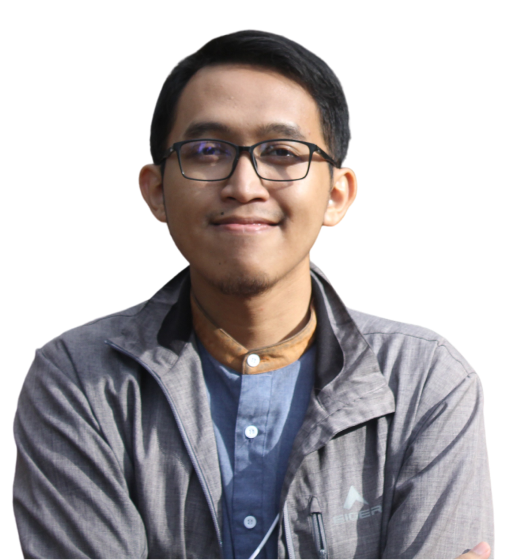
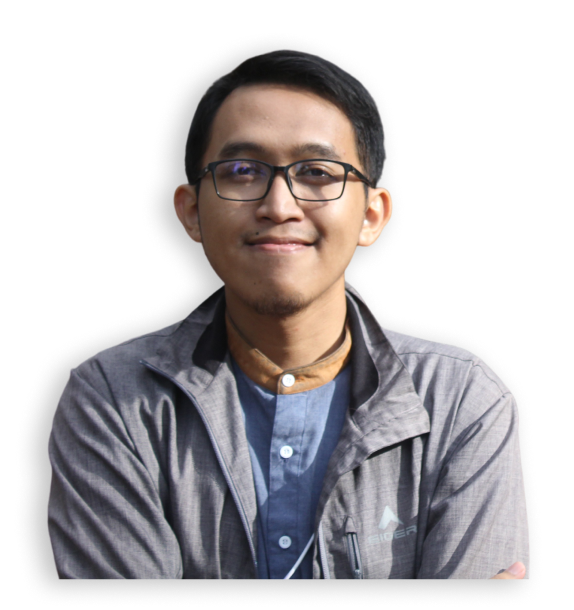
Добавлен блок интро

diff --git a/style/style.css b/style/style.css
@@ -79,6 +79,26 @@ body.theme-dark {
   background-color: var(--color-dark);
 }
 
+.icon::before {
+  font-family: icomoon;
+}
+
+.icon-linkedin::before {
+  content: '\e905';
+}
+
+.icon-github::before {
+  content: '\e904';
+}
+
+.icon-dribble::before {
+  content: '\e902';
+}
+
+.icon-download::before {
+  content: '\e900';
+}
+
 .page {
   padding: 0px 24px;
 }
@@ -87,6 +107,64 @@ body.theme-dark {
   max-width: 1224px;
   width: 100%;
   margin: 0 auto;
+}
+
+.button {
+  display: inline-flex;
+  align-items: center;
+  justify-content: center;
+  gap: 4px;
+  background-color: var(--color-primary-500);
+  height: 52px;
+  border: none;
+  border-radius: 6px;
+  padding: 12px 20px;
+  color: var(--color-light);
+  font-family: inherit;
+  font-weight: 400;
+  font-size: 18px;
+  line-height: 28px;
+  text-align: center;
+  transition: color 0.3s;
+}
+
+.button_text {
+  background: none;
+  border: none;
+  border-radius: none;
+  color: var(--color-secondary-500);
+  text-decoration: none;
+  font-family: inherit;
+  font-weight: 400;
+  font-size: 18px;
+  line-height: 28px;
+  text-align: center;
+}
+
+.theme-dark .button_text {
+  color: var(--color-light);
+}
+
+.socials__list {
+  list-style: none;
+  display: flex;
+  gap: 24px;
+}
+
+.socials__link {
+  display: flex;
+  justify-content: center;
+  align-items: center;
+  color: var(--color-secondary-500);
+  font-size: 32px;
+  text-decoration: none;
+  width: 32px;
+  height: 32px;
+  transition: color 0.3s;
+}
+
+.theme-dark .socials__link {
+  color: var(--color-white);
 }
 
 .logo {
@@ -161,9 +239,74 @@ body.theme-dark {
   justify-content: space-between;
   align-items: center;
   padding: 48px 0px;
+  margin-bottom: 32px;
 }
 
 .header__logo,
 .header__theme {
   flex-shrink: 0;
 }
+
+.intro {
+  display: flex;
+}
+
+.intro__greeting {
+  color: var(--color-primary-500);
+  font-weight: 500px;
+  font-size: 24px;
+  line-height: 32px;
+}
+
+.intro__name {
+  color: var(--color-secondary-400);
+  font-weight: 900;
+  font-size: 72px;
+  line-height: 92px;
+  margin-bottom: 24px;
+  transition: color 0.3s;
+}
+
+.theme-dark .intro__name {
+  color: var(--color-light);
+}
+
+.intro__line {
+  width: 80px;
+  height: 8px;
+  background-color: var(--color-primary-500);
+  margin-bottom: 72px;
+}
+
+.intro__hero {
+  max-width: 100%;
+  width: 523px;
+  margin: 0 auto;
+  object-fit: cover;
+}
+
+.intro__content {
+  max-width: 370px;
+}
+
+.intro__title {
+  font-weight: 700;
+  font-size: 36px;
+  line-height: 45px;
+  color: var(--color-secondary-500);
+  margin-bottom: 32px;
+  transition: color 0.3s;
+}
+
+.theme-dark .intro__title {
+  color: var(--color-light);
+}
+
+.intro__description {
+  font-weight: 400;
+  font-size: 18px;
+  line-height: 28px;
+  color: var(--color-body);
+  margin-bottom: 32px;
+}
+

diff --git a/index.html b/index.html
@@ -25,6 +25,44 @@
                 </nav>
                 <button type="button" class="theme-switch header__theme"></button>
             </header>
+            <section class="intro">
+                <div class="intro__info">
+                    <p class="intro__greeting">Hi, i am</p>
+                    <h1 class="intro__name">Han</h1>
+                    <div class="intro__line"></div>
+                    <nav class="intro__socials socials">
+                        <ul class="socials__list">
+                            <li class="socials__item">
+                                <a href="/" class="socials__link icon icon-linkedin"></a>
+                            </li>
+                            <li class="socials__item">
+                                <a href="/" class="socials__link icon icon-github"></a>
+                            </li>
+                            <li class="socials__item">
+                                <a href="/" class="socials__link icon icon-dribble"></a>
+                            </li>
+                        </ul>  
+                    </nav>
+                </div>
+                <img class="intro__hero" src="images/hero.png" alt="">
+                <div class="intro__content">
+                    <h2 class="intro__title">
+                        UI Engineer based on Yogyakarta, Indonesia
+                    </h2>
+                    <p class="intro__description">
+                        I am a multi-disciplinary Frontend Developer and UI Designer who have experience creating projects in a various 
+                        industry and have worked with diverse clients from all over the world. 
+                        I merge technical and design skills to create innovative product with beautiful and functional user experiences.
+                    </p>
+                    <div class="intro__buttons">
+                        <button class="button" type="button">Reach Me</button>
+                        <a class="button button_text" href="/">
+                            <span class="icon icon-download"></span>
+                            <span>Download CV</span>
+                        </a>
+                    </div> 
+                </div>
+            </section> 
         </div>
     </main>
 
